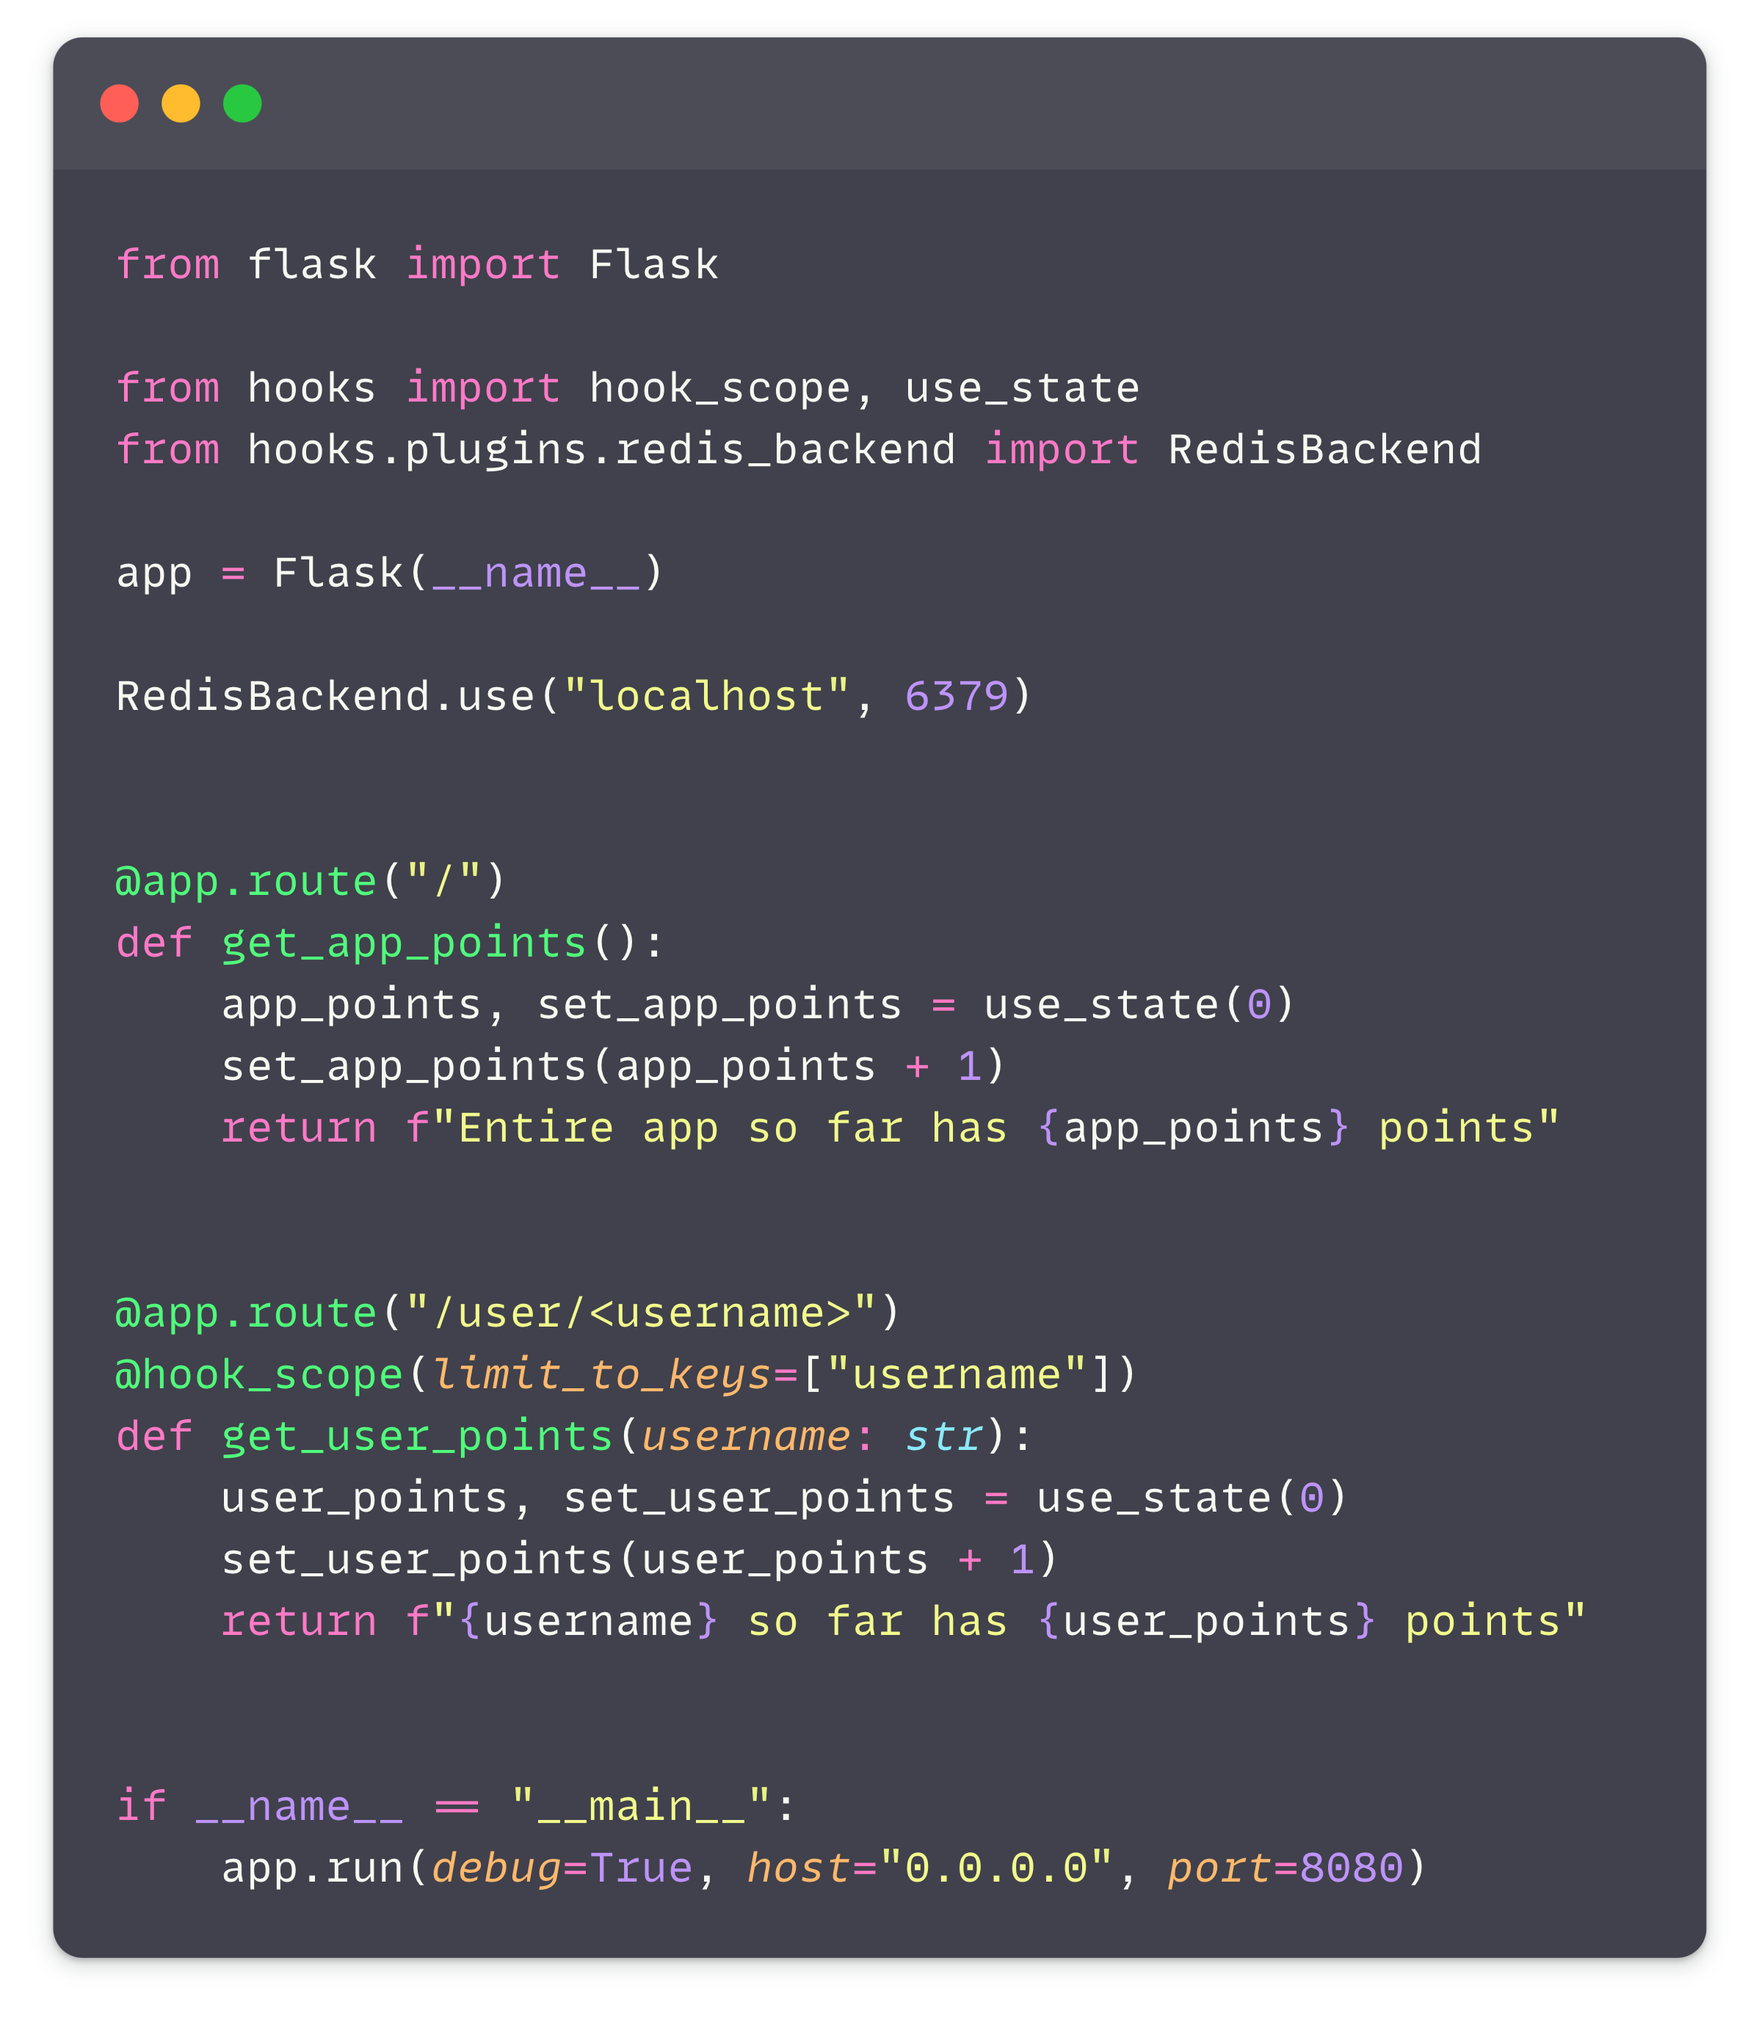
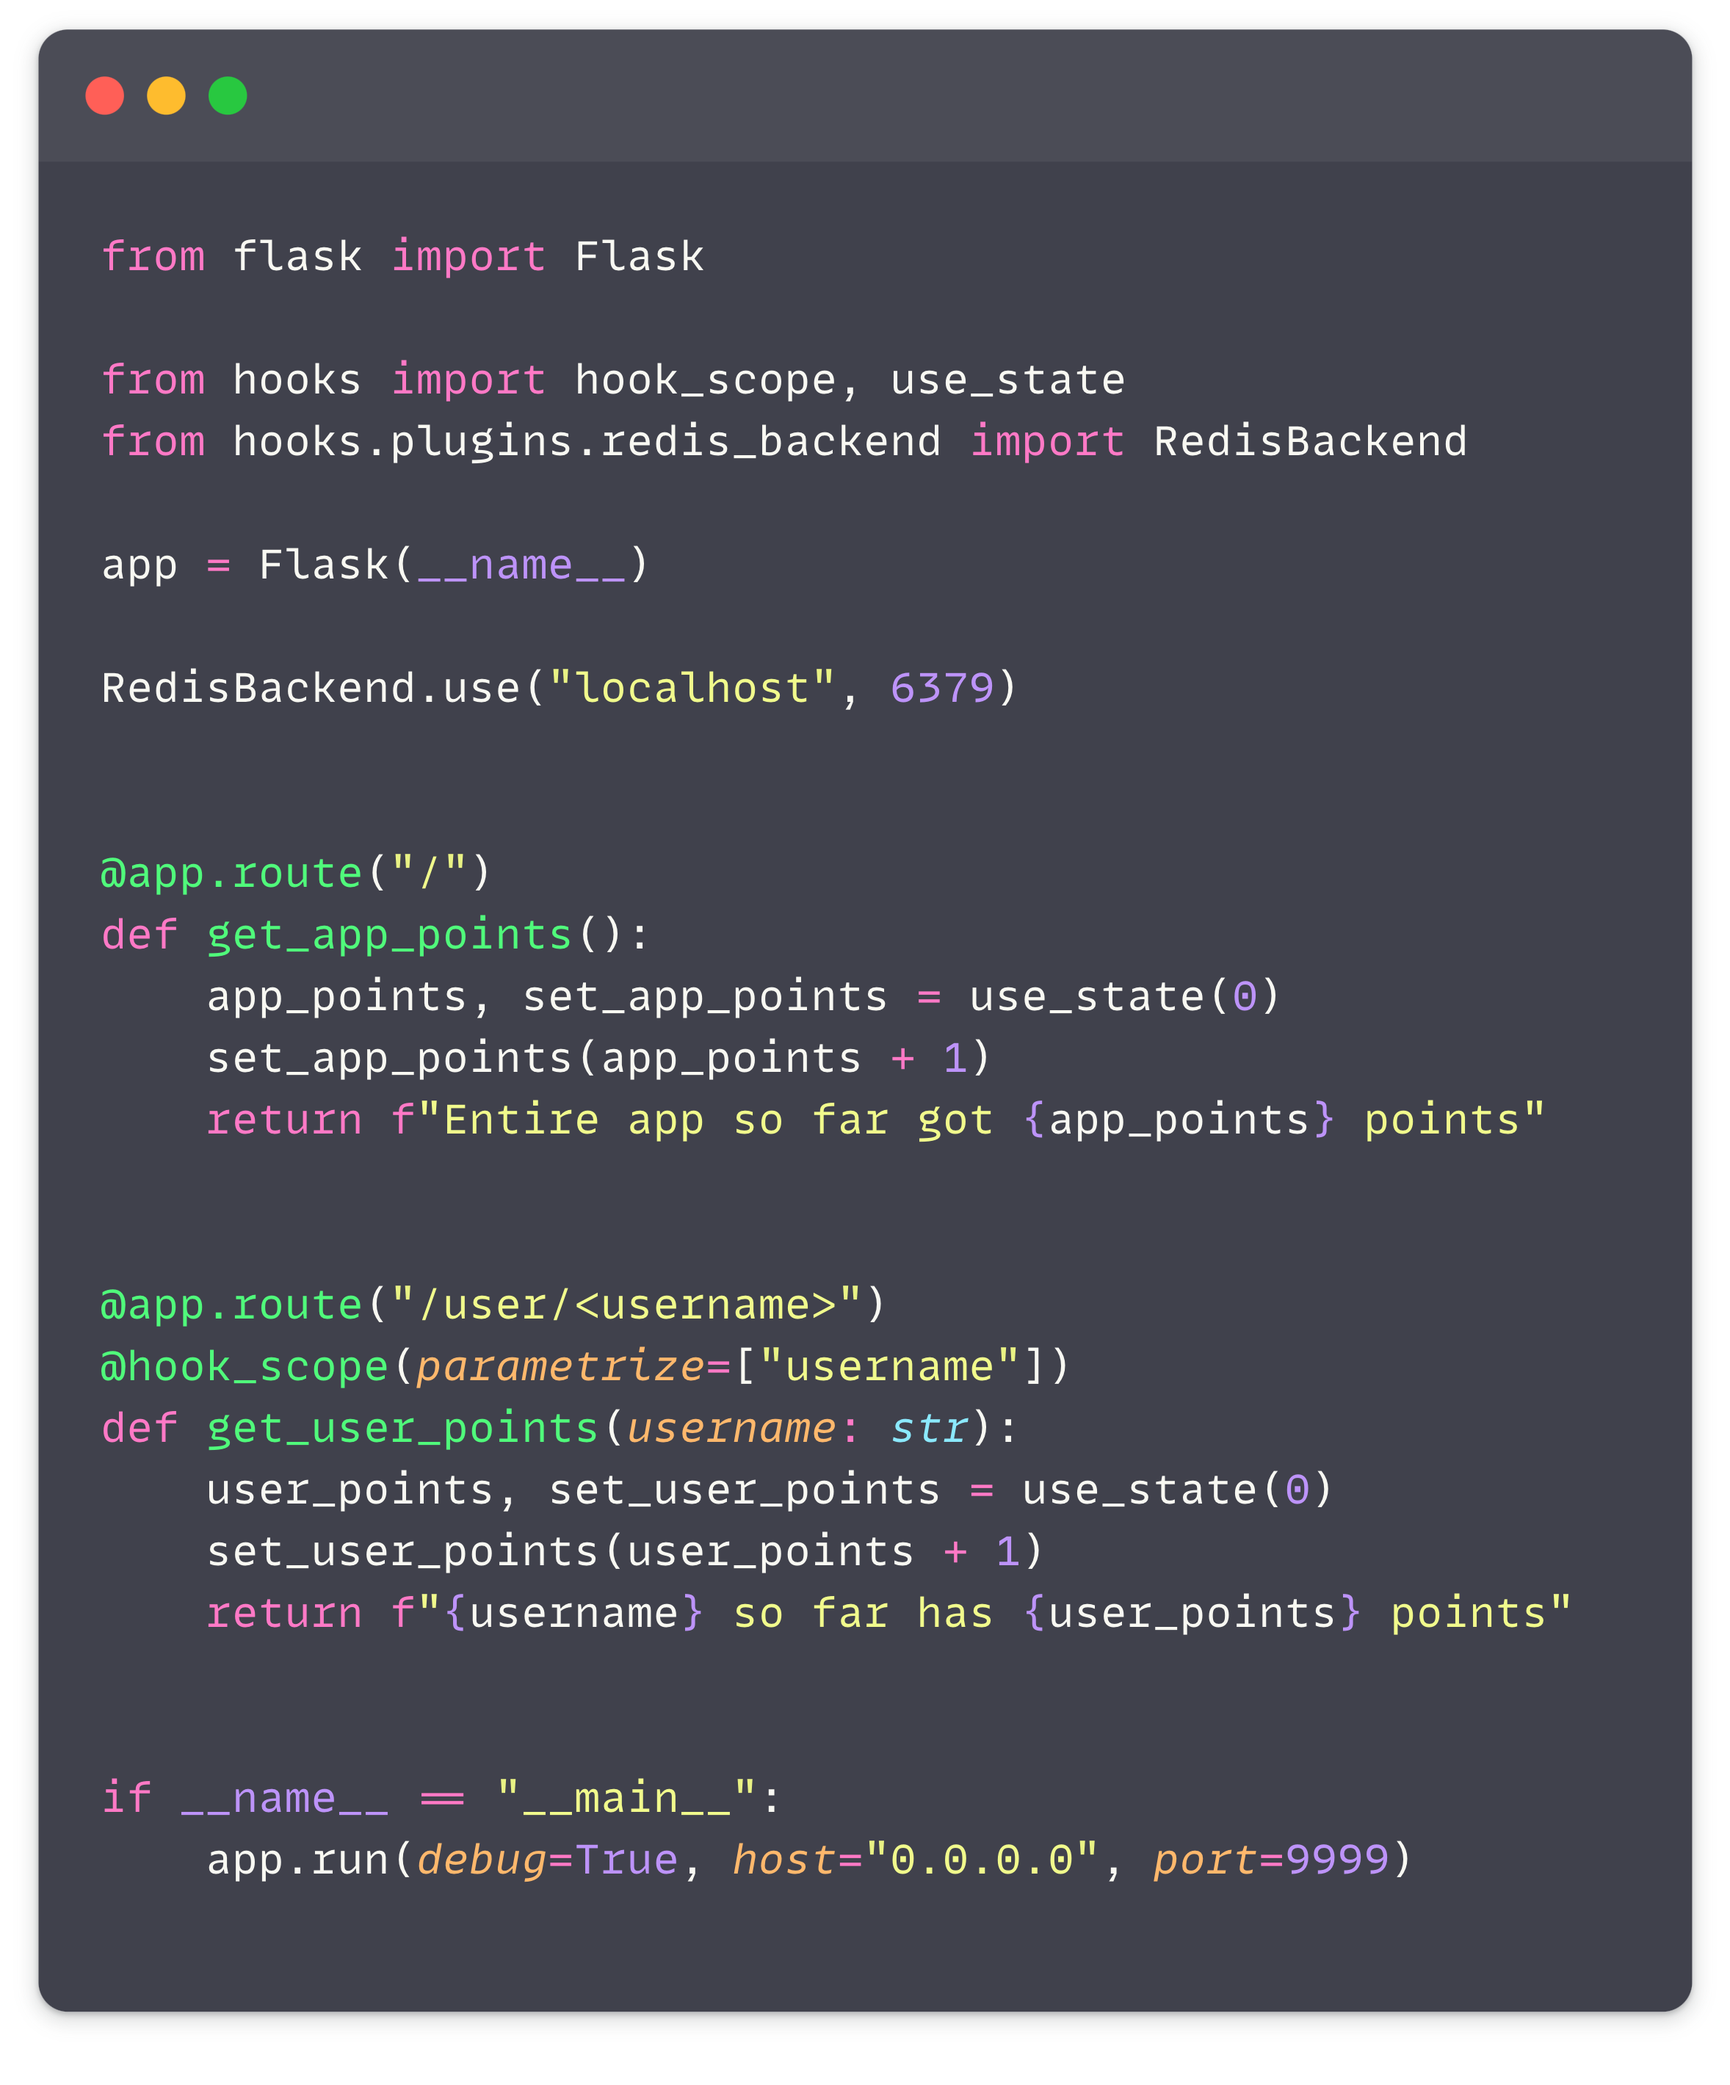
chore: parametrize

diff --git a/src/hooks/scope.py b/src/hooks/scope.py
@@ -11,7 +11,7 @@ HOOKED_FUNCTION_ATTRIBUTE = "__hooked_function__"
 @contextmanager
 def _hook_scope_manager(
     wrapped: Callable[[Any], Any],
-    limit_to_keys: Optional[list[str]] = None,
+    parametrize: Optional[list[str]] = None,
     *args: Any,
     **kwargs: dict[str, Any],
 ) -> None:
@@ -19,7 +19,7 @@ def _hook_scope_manager(
     A context manager to manage the scope of hooks. This is used to identify the scope of hooks and to limit the scope
     of hooks to the function and keys.
     :param wrapped: The function that is being wrapped
-    :param limit_to_keys: The keys to limit the scope to
+    :param parametrize: The keys to limit the scope to
     :param args: The args of the function
     :param kwargs: The kwargs of the function
     """
@@ -28,11 +28,11 @@ def _hook_scope_manager(
     identifier = ""
 
     # We get the names of the arguments as sometimes they are not passed as kwargs and we need to identify
-    # them in order to see if they are in the limit_to_keys.
+    # them in order to see if they are in the parametrize.
     args_names = wrapped.__code__.co_varnames[: wrapped.__code__.co_argcount]
 
     for key, value in [*kwargs.items(), *list(zip(args_names, args))]:
-        if limit_to_keys is None or key in limit_to_keys:
+        if parametrize is None or key in parametrize:
             identifier += f"{key}:{value};"
     _hook_scope_manager.current_identifier.append(f"{wrapped.__qualname__}{identifier}")
     try:
@@ -46,20 +46,20 @@ _hook_scope_manager.current_identifier = []
 
 
 def hook_scope(
-    limit_to_keys: Optional[list[str]] = None, use_global_scope: Optional[bool] = False
+    parametrize: Optional[list[str]] = None, use_global_scope: Optional[bool] = False
 ) -> Callable[[Any], Any]:
     """
     Create a scope for all hooks in the scope. The scope will be added to the hook identifiers to allow for state to
     be scoped either per the function and below or by the function and keys.
-    :param limit_to_keys: The keys to limit the scope to.
+    :param parametrize: The keys to limit the scope to.
     :param use_global_scope: If True, the scope and all hooks will be persisted globally and will not be limited to the
      instance. If this is True, you must specify the keys to limit the scope to because we cannot identify the self / cls
         argument automatically.
     """
 
-    if use_global_scope and limit_to_keys is None:
+    if use_global_scope and parametrize is None:
         raise ValueError(
-            "You must specify the keys to limit the state to (limit_to_keys) if you want to use global "
+            "You must specify the keys to limit the state to (parametrize) if you want to use global "
             "scope, if your function only has self or cls as arguments, you can use an empty list '[]'."
         )
 
@@ -69,9 +69,7 @@ def hook_scope(
 
         @wraps(__hooked_function__)
         def wrapper(*args, **kwargs) -> Any:
-            with _hook_scope_manager(
-                __hooked_function__, limit_to_keys, *args, **kwargs
-            ):
+            with _hook_scope_manager(__hooked_function__, parametrize, *args, **kwargs):
                 return __hooked_function__(*args, **kwargs)
 
         return wrapper

diff --git a/tests/test_hooks/test_hook_scope.py b/tests/test_hooks/test_hook_scope.py
@@ -4,7 +4,7 @@ from hooks.use import use_state
 
 def test_local_state() -> None:
     class Foo:
-        @hook_scope(limit_to_keys=["counter_name"])
+        @hook_scope(parametrize=["counter_name"])
         def local_state(self, counter_name: str) -> int:
             counter, set_counter = use_state(0)
             set_counter(counter + 1)
@@ -53,7 +53,7 @@ def test_global_state_without_arguments() -> None:
 def test_class_state() -> None:
     class Bar:
         @classmethod
-        @hook_scope(limit_to_keys=["counter_name"])
+        @hook_scope(parametrize=["counter_name"])
         def class_state(cls, counter_name: str) -> int:
             counter, set_counter = use_state(0)
             set_counter(counter + 1)
@@ -74,7 +74,7 @@ def test_hook_scope_of_nested_functions() -> None:
             set_counter(counter + 1)
             return counter
 
-        @hook_scope(limit_to_keys=["counter_name"])
+        @hook_scope(parametrize=["counter_name"])
         def local_state(self, counter_name: str) -> int:
             return self.nested_state()
 
@@ -97,7 +97,7 @@ def test_nested_hook_scopes() -> None:
             set_counter(counter + 1)
             return counter
 
-        @hook_scope(limit_to_keys=["counter_name"])
+        @hook_scope(parametrize=["counter_name"])
         def local_state(self, counter_name: str) -> int:
             return self.nested_state_with_scope()
 
@@ -114,7 +114,7 @@ def test_nested_hook_scopes() -> None:
 
 def test_local_state_that_is_scoped_globally() -> None:
     class Foo:
-        @hook_scope(use_global_scope=True, limit_to_keys=[])
+        @hook_scope(use_global_scope=True, parametrize=[])
         def local_state(self) -> int:
             counter, set_counter = use_state(0)
             set_counter(counter + 1)

diff --git a/examples/hooks-in-apis/api/simple_points_app.py b/examples/hooks-in-apis/api/simple_points_app.py
@@ -16,7 +16,7 @@ def get_app_points():
 
 
 @app.route("/user/<username>")
-@hook_scope(limit_to_keys=["username"])
+@hook_scope(parametrize=["username"])
 def get_user_points(username: str):
     user_points, set_user_points = use_state(0)
     set_user_points(user_points + 1)

diff --git a/docs/scoping/scope_decorator.md b/docs/scoping/scope_decorator.md
@@ -17,7 +17,7 @@ state based on function parameters.
 from hooks import use_state, hook_scope
 
 
-@hook_scope(limit_to_keys=["owner"])
+@hook_scope(parametrize=["owner"])
 def owned_counter(owner: str):
     count, set_count = use_state(0)
     set_count(count + 1)
@@ -29,7 +29,7 @@ owned_counter("Jane")  # Output: Jane's count is 0
 owned_counter("Jane")  # Output: Jane's count is 1
 ```
 
-Note that you do not have to provide a value for the `limit_to_keys` parameter. If you do not provide a value, the hook
+Note that you do not have to provide a value for the `parametrize` parameter. If you do not provide a value, the hook
 will be scoped to all function parameters.
 
 ```python
@@ -60,7 +60,7 @@ from hooks import use_state, hook_scope
 
 
 class CounterClass:
-    @hook_scope(use_global_scope=True, limit_to_keys=[])
+    @hook_scope(use_global_scope=True, parametrize=[])
     def instance_method_scoped_globally(self):
         count, set_count = use_state(0)
         set_count(count + 1)
@@ -82,7 +82,7 @@ print(counter_two.instance_method_scoped_globally())  # Output: 1
 
 ```
 
-Note that when using `use_global_scope=True`, you have to provide a value for the `limit_to_keys` parameter. You may
+Note that when using `use_global_scope=True`, you have to provide a value for the `parametrize` parameter. You may
 provide an empty list if you want to scope the hook to no parameters.
 
 
@@ -101,7 +101,7 @@ class NestedStates:
         set_counter(counter + 1)
         return counter
 
-    @hook_scope(limit_to_keys=["counter_name"])
+    @hook_scope(parametrize=["counter_name"])
     def local_state(self, counter_name: str) -> int:
         return self.nested_state()
 
@@ -132,7 +132,7 @@ class NestedStates:
         set_counter(counter + 1)
         return counter
   
-    @hook_scope(limit_to_keys=["counter_name"])
+    @hook_scope(parametrize=["counter_name"])
     def local_state(self, counter_name: str) -> int:
         return self.nested_state_with_scope()
 
